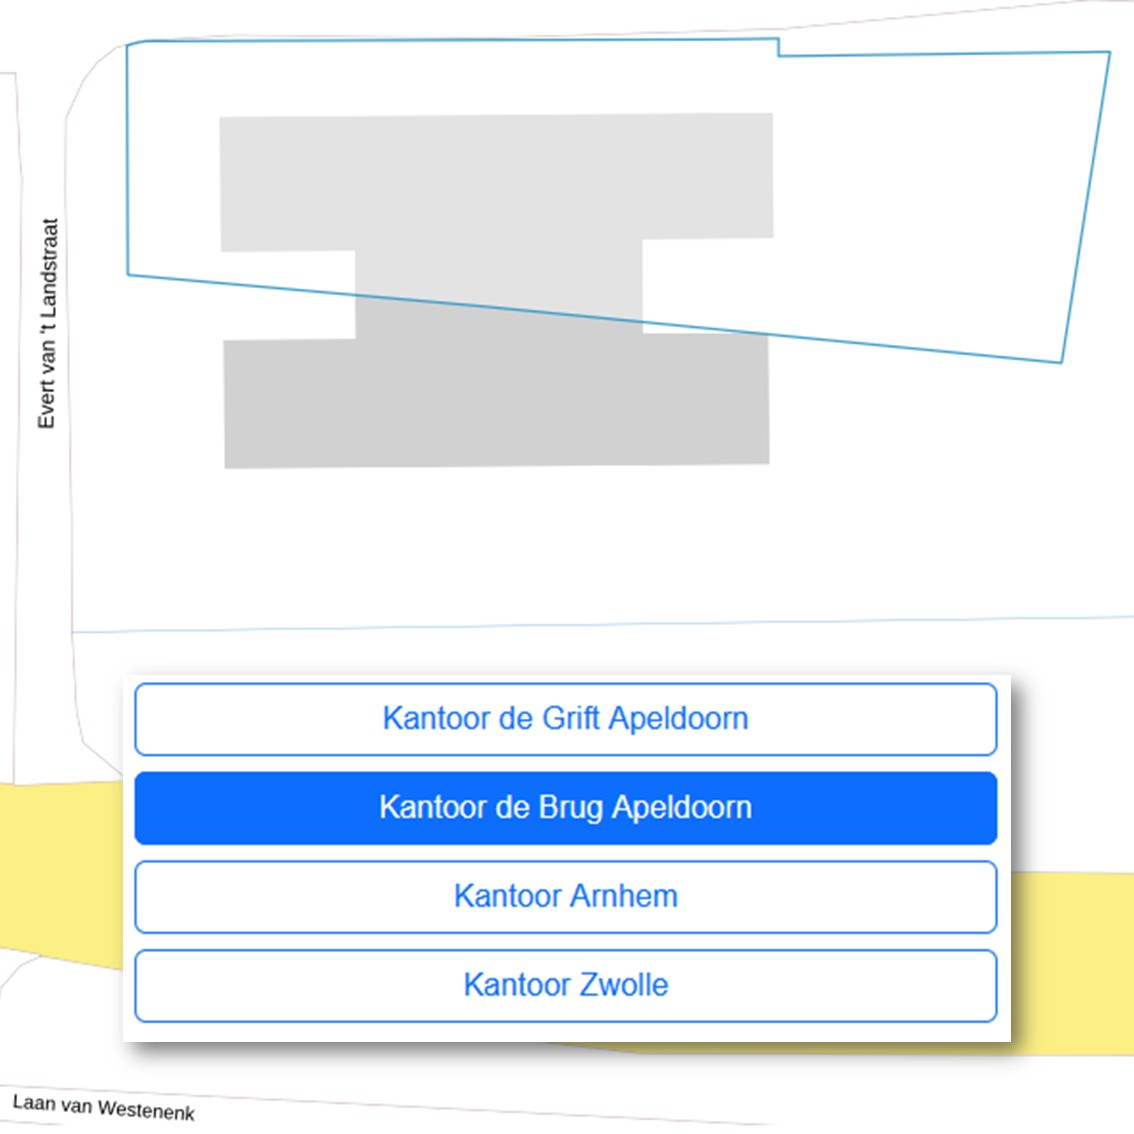
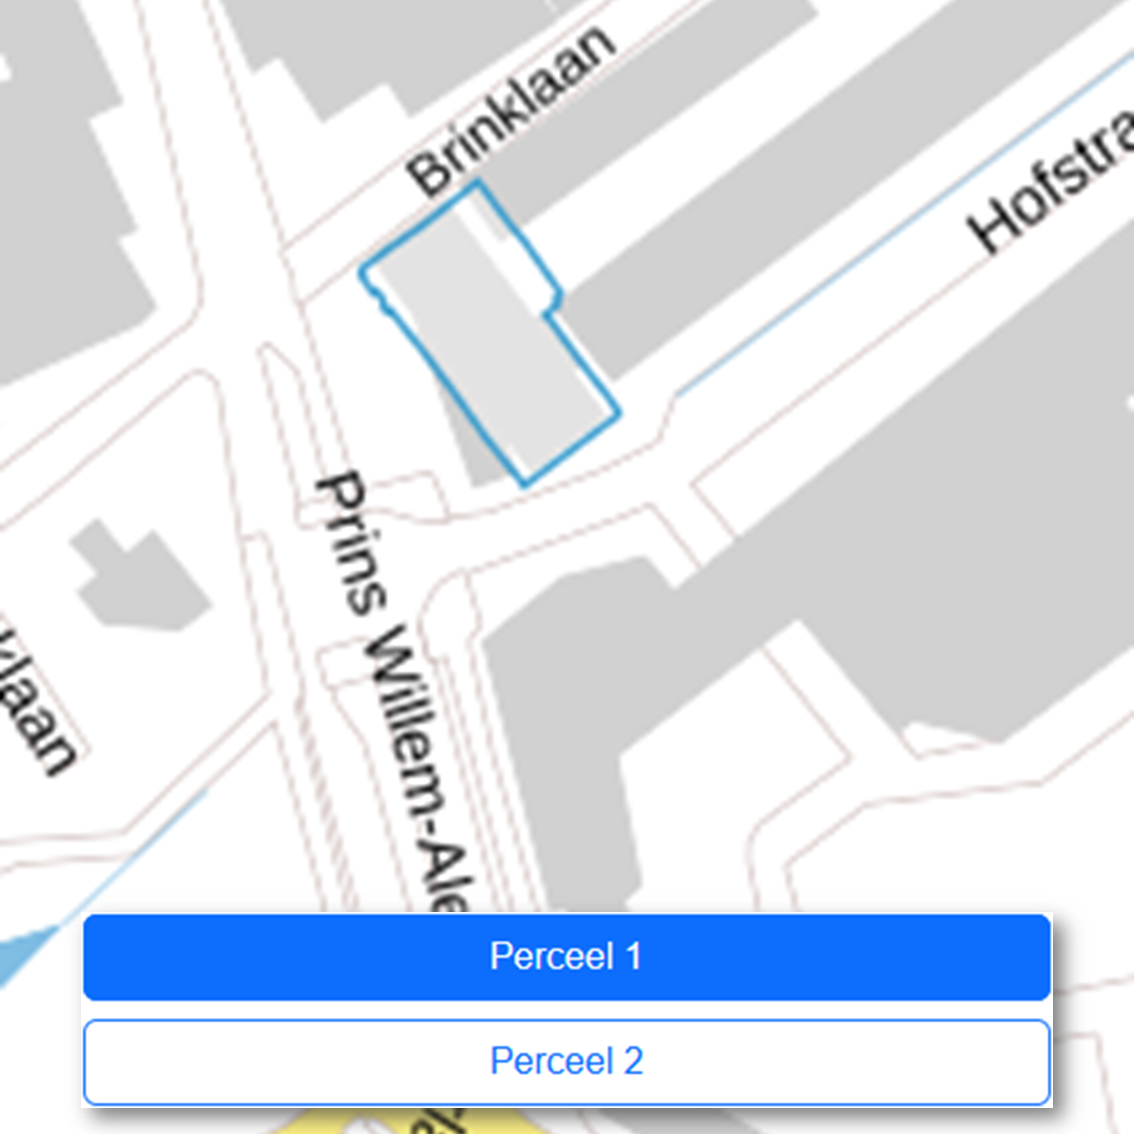
TMS-11515 comments

diff --git a/projects/ggc-home/src/app/examples/example-layer/example-dynamic-layer-ogc-basic/example-dynamic-layer-ogc-basic.component.html b/projects/ggc-home/src/app/examples/example-layer/example-dynamic-layer-ogc-basic/example-dynamic-layer-ogc-basic.component.html
@@ -42,22 +42,6 @@
             >
               Perceel 2
             </button>
-            <button
-              (click)="selectPerceel3()"
-              class="btn"
-              [class.btn-primary]="activeLocation === 'perceel3'"
-              [class.btn-outline-primary]="activeLocation !== 'perceel3'"
-            >
-              Perceel 3
-            </button>
-            <button
-              (click)="selectPerceel4()"
-              class="btn"
-              [class.btn-primary]="activeLocation === 'perceel4'"
-              [class.btn-outline-primary]="activeLocation !== 'perceel4'"
-            >
-              Perceel 4
-            </button>
           </div>
         </fieldset>
       </div>
@@ -65,7 +49,7 @@
           <div class="map-container">
             <ggc-map
               [webServices]="mapConfig"
-            [mapIndex]="this.mapIndex" ]></ggc-map>
+            [mapIndex]="this.mapIndex"></ggc-map>
           </div>
       </div>
       <!-- DOCS:END functionality -->

diff --git a/projects/ggc-home/src/app/examples/example-layer/example-dynamic-layer-ogc-basic/example-dynamic-layer-ogc-basic.component.ts b/projects/ggc-home/src/app/examples/example-layer/example-dynamic-layer-ogc-basic/example-dynamic-layer-ogc-basic.component.ts
@@ -73,16 +73,6 @@ export class ExampleDynamicLayerOgcBasicComponent
     this.addFeatureToGeoJsonLayer("Apeldoorn&perceelnummer=7083&sectie=U");
   }
 
-  selectPerceel3() {
-    this.activeLocation = "perceel3";
-    this.addFeatureToGeoJsonLayer("Apeldoorn&perceelnummer=8643&sectie=U");
-  }
-
-  selectPerceel4() {
-    this.activeLocation = "perceel4";
-    this.addFeatureToGeoJsonLayer("Apeldoorn&perceelnummer=6065&sectie=U");
-  }
-
   private addFeatureToGeoJsonLayer(kadastraleGemeenteWaarde: string) {
     this.layerService.removeLayer(this.mapIndex, "perceel");
     this.layerService.addGeojsonLayer({
